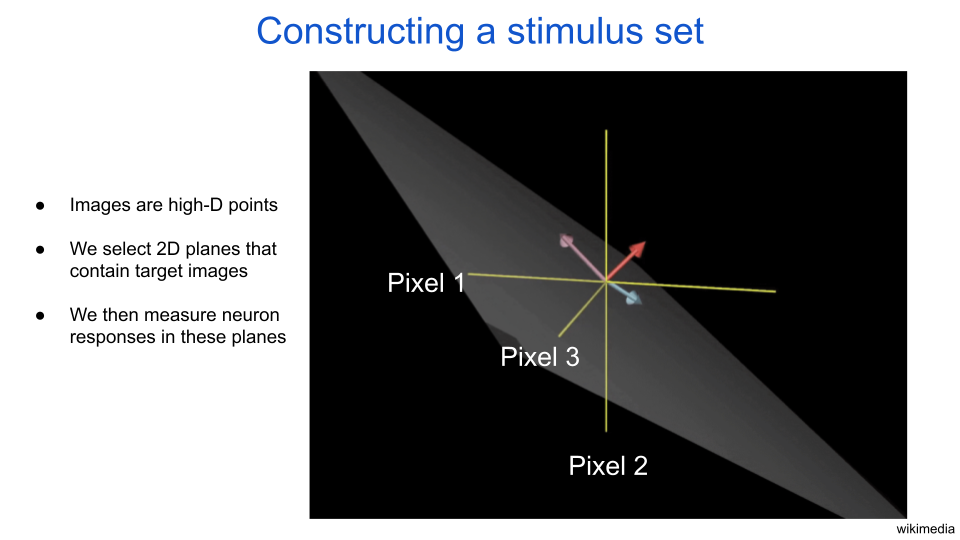
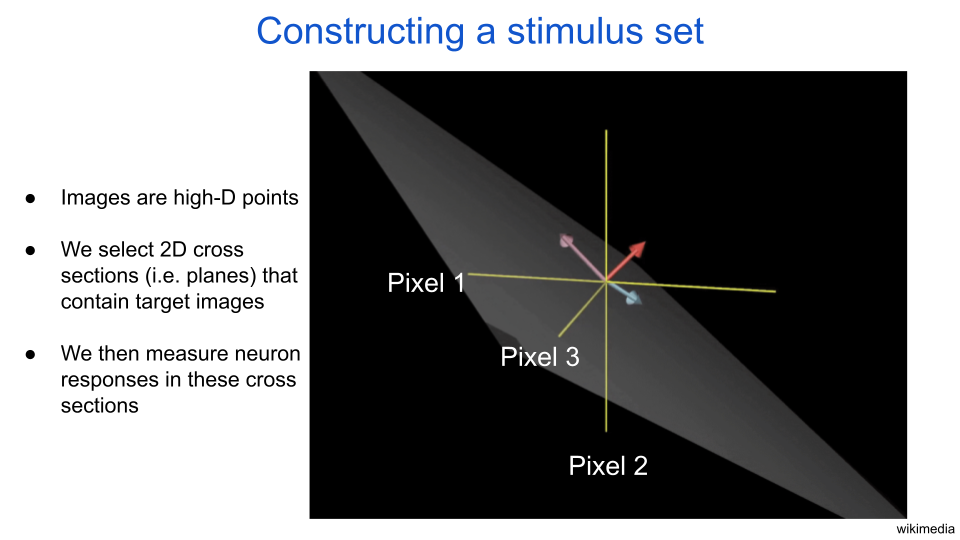
using 'cross sections' instead of 'plane'

Changed region(s): [[0.0312, 0.4444, 0.3125, 0.7704], [0.0312, 0.3556, 0.3125, 0.4148]]

diff --git a/_posts/2021-05-18-neuron-response-contours.md b/_posts/2021-05-18-neuron-response-contours.md
@@ -67,9 +67,9 @@ The next figure has an illustration of a 3D image space with such a 2D cross sec
 **fig. 2**
 Images are high-dimensional points.
 In this illustration, each yellow axis represents the value of a pixel for a three-pixel image.
-The grey sheet represents a plane, or cross section.
-The purple and blue arrows define the plane.
-The red arrow points in the remaining direction, which is perpendicular to the plane.
+The grey sheet represents a cross section, or plane.
+The purple and blue arrows define the cross section.
+The red arrow points in the remaining direction, which is perpendicular to the cross section.
 {: style="text-align: center; font-size:11pt"}
 
 Here's a roadmap of what is to come:
@@ -95,17 +95,17 @@ For any given cross section, all of the images are [coplanar](https://en.wikiped
 **fig. 3**
 We discretize an image cross section into a two-dimensional grid and collect the points to define a dataset
 of images.
-The black arrows are perpendicular vectors that define the plane.
-The origin for all of the planes we consider here will be a zero-contrast image, in other words a uniform gray image.
+The black arrows are perpendicular vectors that define the cross section.
+The origin for all of the cross sections we consider here will be a zero-contrast image, in other words a uniform gray image.
 {: style="text-align: center; font-size:11pt"}
 
 In addition to constraining our input space to be coplanar, we are also going to constrain our output space to simplify the analysis.
 Specifically, we are going to look at the curvature of the _iso-response contours_ of the neuron.
-These contours are connected points that are all on the plane and all produce the same output from the neuron.
+These contours are connected points that are all on the cross section and all produce the same output from the neuron.
 To see the iso-response contours, we will compute the neuron’s output (i.e. _activity_) for all of the cross section images and then recolor the points according to the activity.
 
-As I said before, we want to pick a plane that is relevant for our neuron.
-To do this we define one of the two plane axes as the neuron's _maximally exciting image (MEI)_, which is an image that was optimized to look like the feature in the world that is most interesting to the neuron.
+As I said before, we want to pick a cross section that is relevant for our neuron.
+To do this we define one of the two cross section axes as the neuron's _maximally exciting image (MEI)_, which is an image that was optimized to look like the feature in the world that is most interesting to the neuron.
 There are a lot of ways to find a neuron's MEI in neuroscience and in artificial neural network research, but for now let's leave asside how the image was produced and just assume it is representative of what the neuron likes most.
 Going forward, we will represent the MEI with the symbol $$\Phi_{k}$$ (read: [phi](https://en.wikipedia.org/wiki/Phi), sounds like "fi" in "financial"), where the $$k$$ tells us it is the MEI for the $$k$$th neuron in our assembly.
 For now the other axis can be any random perpendicular (i.e. _[orthogonal](https://en.wikipedia.org/wiki/Orthogonality)_) image, but we will choose more specific orthogonal images later.
@@ -114,7 +114,7 @@ For now the other axis can be any random perpendicular (i.e. _[orthogonal](https
 {: style="text-align: center; font-size:11pt"}
 
 **fig. 4**
-The horizontal axis for an image plane is always the target neuron's maximally exciting image, or MEI.
+The horizontal axis for an image cross section is always the target neuron's maximally exciting image, or MEI.
 {: style="text-align: center; font-size:11pt"}
 
 ### Plotting the contours
@@ -194,7 +194,7 @@ Each perturbation point is displayed on the right.
 {: style="text-align: center; font-size:11pt"}
 
 To start, we have two neurons with identical MEIs, but different curvature.
-The vertical axis that helps define our plane, $$\nu_{\text{noise}}$$, is a random noise image.
+The vertical axis that helps define our cross section, $$\nu_{\text{noise}}$$, is a random noise image.
 This means that an 'up' perturbation will result in the MEI looking more and more noisy.
 Again let's consider the pointwise nonlinear neuron.
 What happens to the output if we take a fixed point on the $$\Phi_{k}$$ axis and then perturb orthognally in the up direction?
